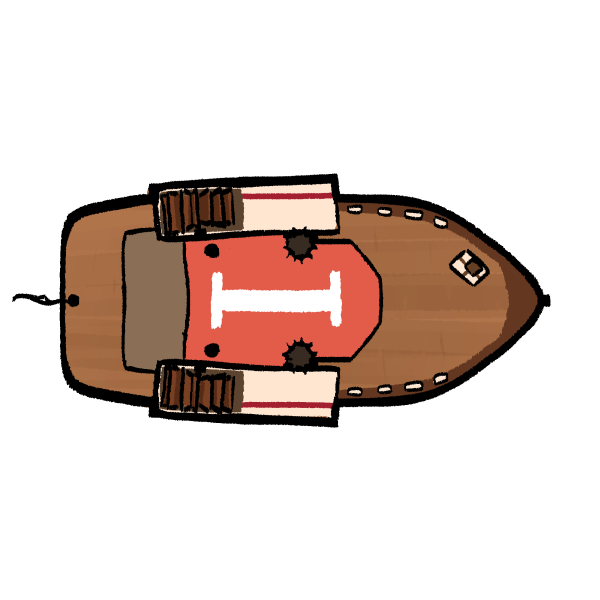
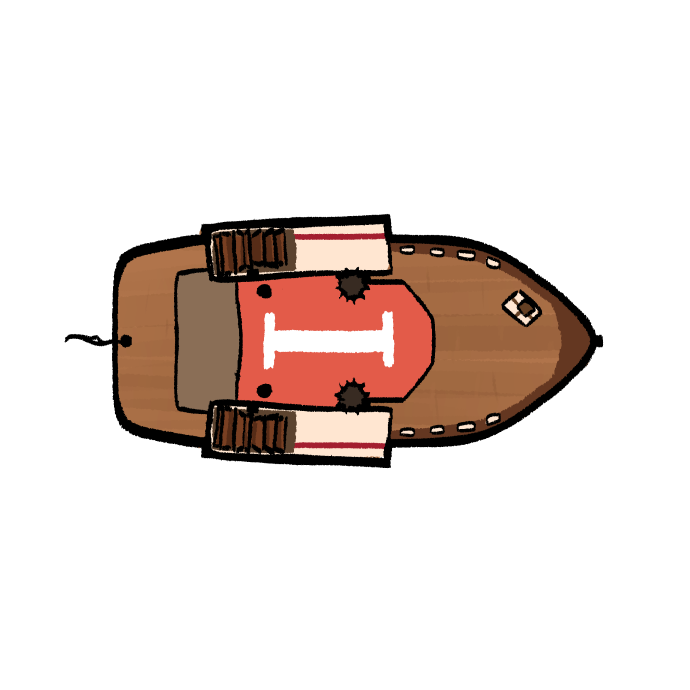
feat(mq): enhanced graphics

Changed region(s): [[0.0, 0.27, 0.93, 0.72]]

diff --git a/src/main/kotlin/sc/gui/view/MississippiBoard.kt b/src/main/kotlin/sc/gui/view/MississippiBoard.kt
@@ -40,7 +40,7 @@ class MississippiBoard: View() {
             minOf(
                     (root.width - AppStyle.spacing) / (it.x + 1),
                     (root.height - AppStyle.spacing * (if(gameModel.gameOver.value && gameModel.atLatestTurn.value) 4 else 2)) / it.y
-            )
+            ) * 1.3
         } ?: 10.0
     
     val grid: Pane = AnchorPane().apply { this.paddingAll = AppStyle.spacing }
@@ -75,14 +75,23 @@ class MississippiBoard: View() {
             }
             logger.trace("New state for board: ${state.longString()}")
             state.board.forEachField { cubeCoordinates, field ->
-                createPiece(field.toString().lowercase()).also { addPiece(it, cubeCoordinates) }
+                state.board.getFieldCurrentDirection(cubeCoordinates)?.let { dir ->
+                    createPiece("stream").also {
+                        addPiece(it, cubeCoordinates)
+                        it.rotate = dir.angle.toDouble()
+                    }
+                } ?: createPiece(field.toString().lowercase()).also {
+                    if(!field.isEmpty)
+                        it.translateZ++
+                    addPiece(it, cubeCoordinates)
+                }
             }
             state.ships.forEach { ship ->
                 val shipName = "ship_${ship.team.name.lowercase()}"
                 val shipPiece = createPiece(shipName)
                 shipPiece.addChild("coal${ship.coal}")
                 (1..ship.passengers).forEach {
-                    shipPiece.addChild("${shipName}passenger$it")
+                    shipPiece.addChild("${shipName}_passenger_${(96 + it).toChar()}")
                 }
                 shipPiece.rotate = ship.direction.angle.toDouble()
                 /*addPiece(Label("C${ship.coal}\nS${ship.speed}" +
@@ -277,8 +286,8 @@ class MississippiBoard: View() {
             val size = it.toDouble()
             node.anchorpaneConstraints {
                 val bounds = gameState?.board?.segments?.takeLast(4)?.bounds
-                leftAnchor = (coordinates.x / 2.0 - (bounds?.first?.first ?: -2)) * size
-                topAnchor = (coordinates.r - (bounds?.second?.first ?: -2)) * size * 0.88
+                leftAnchor = (coordinates.x / 2.0 - (bounds?.first?.first ?: -2)) * size * .774
+                topAnchor = (coordinates.r - (bounds?.second?.first ?: -2)) * size * .668
             }
         }
         return node

diff --git a/src/main/kotlin/sc/gui/AppStyle.kt b/src/main/kotlin/sc/gui/AppStyle.kt
@@ -176,20 +176,34 @@ class AppStyle: Stylesheet() {
             backgroundRepeat += BackgroundRepeat.REPEAT to BackgroundRepeat.REPEAT
         }
         
-        (Array(12) { "passenger${it % 6}${it / 6}" } + arrayOf("island", "water", "goal")).forEach {
-            select(CssRule.c(it)) { image = resources.url("/mq/fields/$it.png").toURI() }
+        
+        (0 until 12).forEach {
+            ".passenger${it % 6}${it / 6}" {
+                image = resources.url("/mq/fields/islands/passenger_island_${(97 + (it % 6)).toChar()}_${it / 6}.png").toURI()
+            }
+        }
+        ".island" {
+            image = resources.url("/mq/fields/islands/empty_island_A.png").toURI()
+        }
+        ".goal" {
+            image = resources.url("/mq/fields/goal.png").toURI()
+        }
+        ".water" {
+            image = resources.url("/mq/fields/water_textures/water_A.png").toURI()
+        }
+        ".stream" {
+            image = resources.url("/mq/fields/stream_A.png").toURI()
         }
         arrayOf("ship_one", "ship_two").forEach {
             select(CssRule.c(it)) { image = resources.url("/mq/boats/$it.png").toURI() }
-            select(CssRule.c(it + "passenger1")) {
-                image = resources.url("/mq/passengers/HUMAN_A_$it.png").toURI()
-            }
-            select(CssRule.c(it + "passenger2")) {
-                image = resources.url("/mq/passengers/HUMAN_B_$it.png").toURI()
+            "ab".forEach { ch ->
+                select(CssRule.c(it + "_passenger_$ch")) {
+                    image = resources.url("/mq/boats/passengers/passenger_${ch}_$it.png").toURI()
+                }
             }
         }
         (1..6).forEach {
-            select(CssRule.c("coal$it")) { image = resources.url("/mq/coal/COAL_$it.png").toURI() }
+            select(CssRule.c("coal$it")) { image = resources.url("/mq/boats/coal/coal_$it.png").toURI() }
         }
     }
 }
